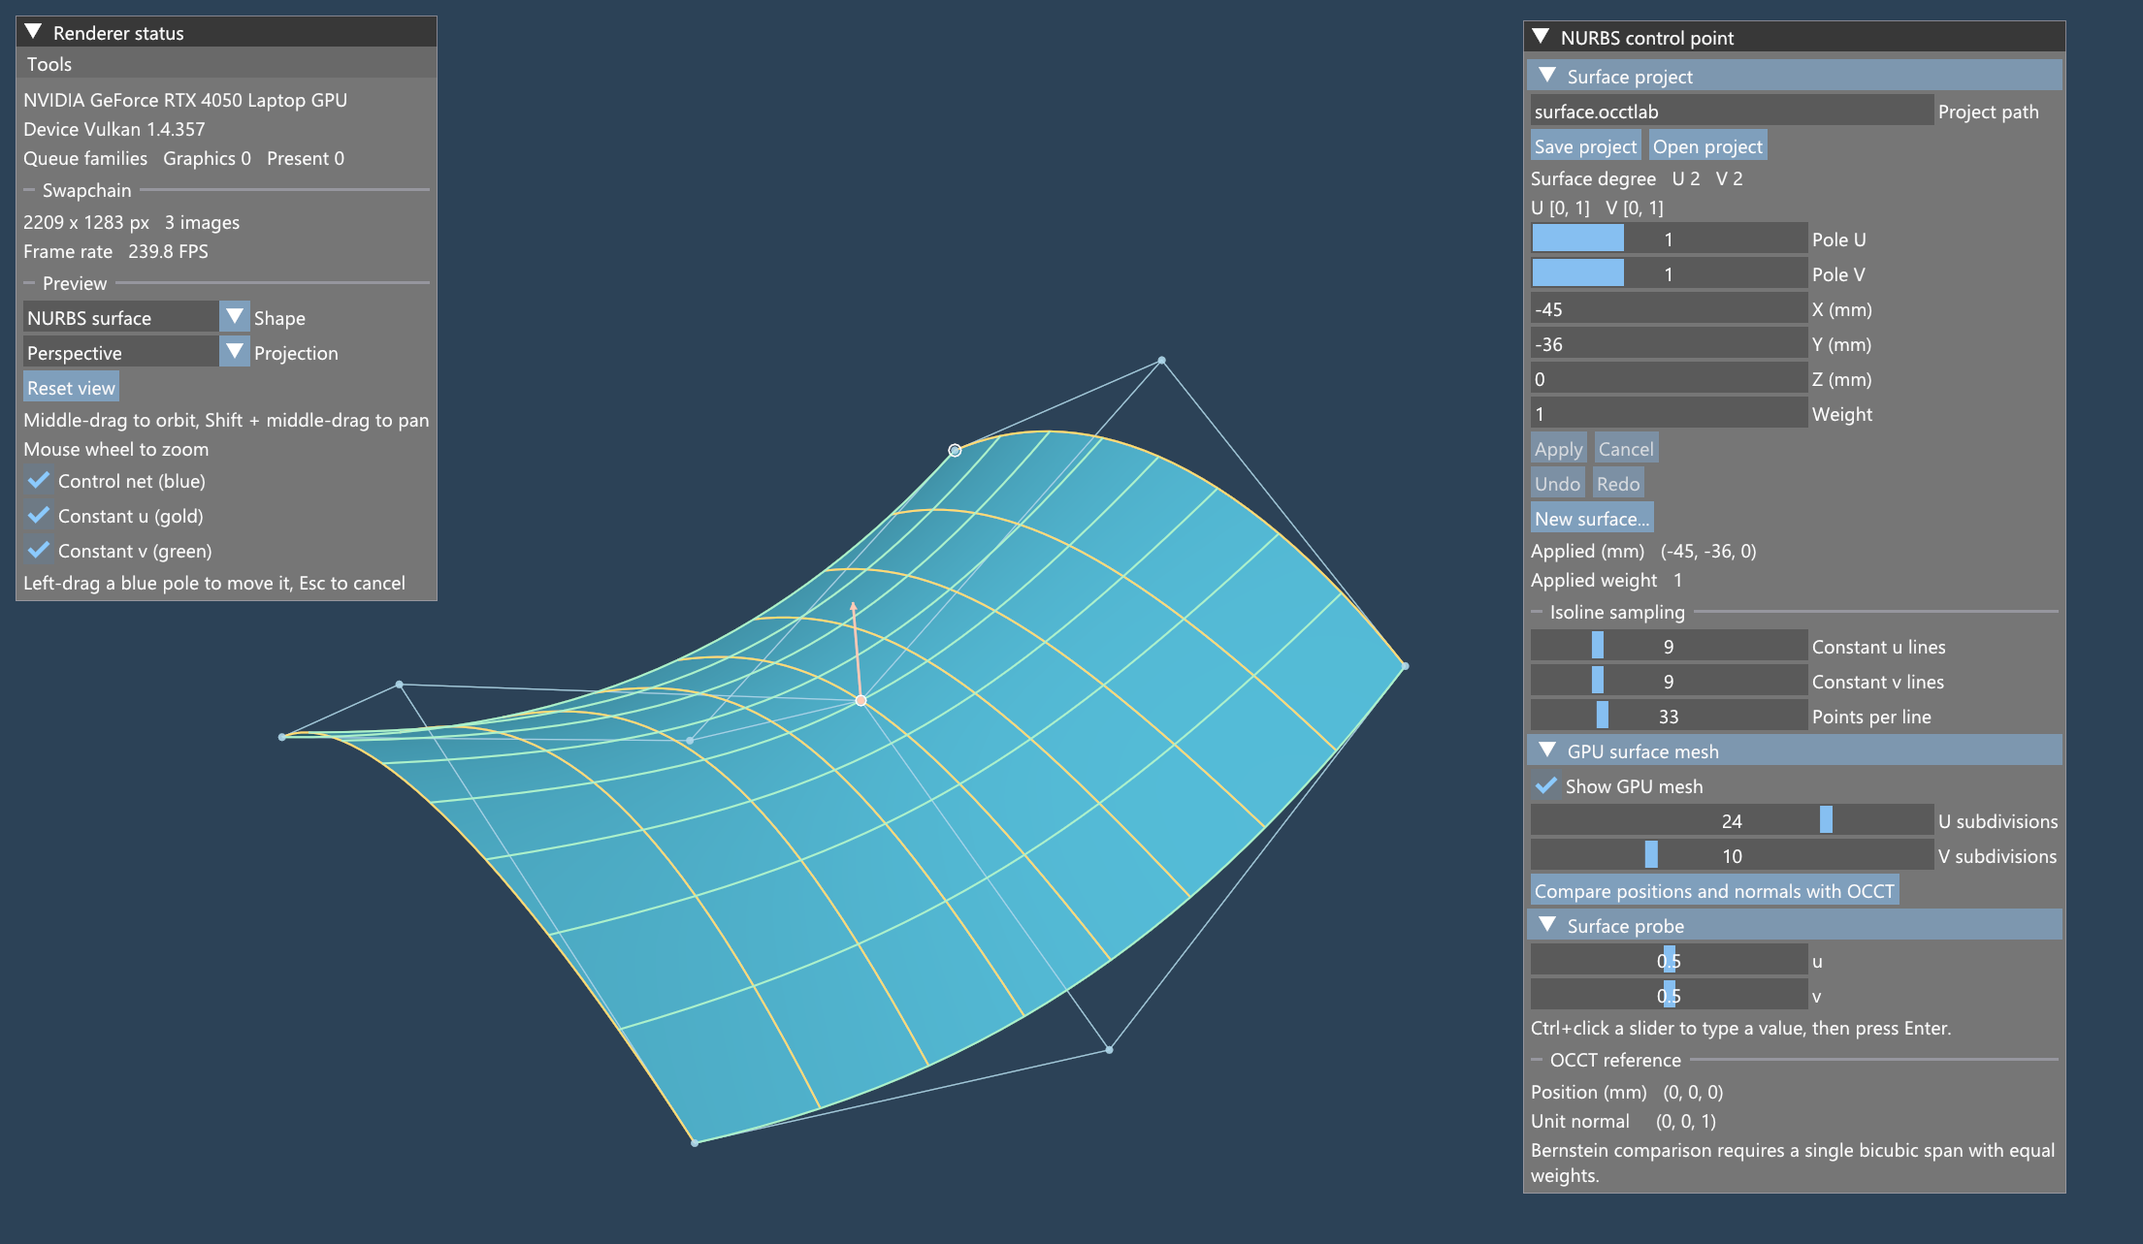
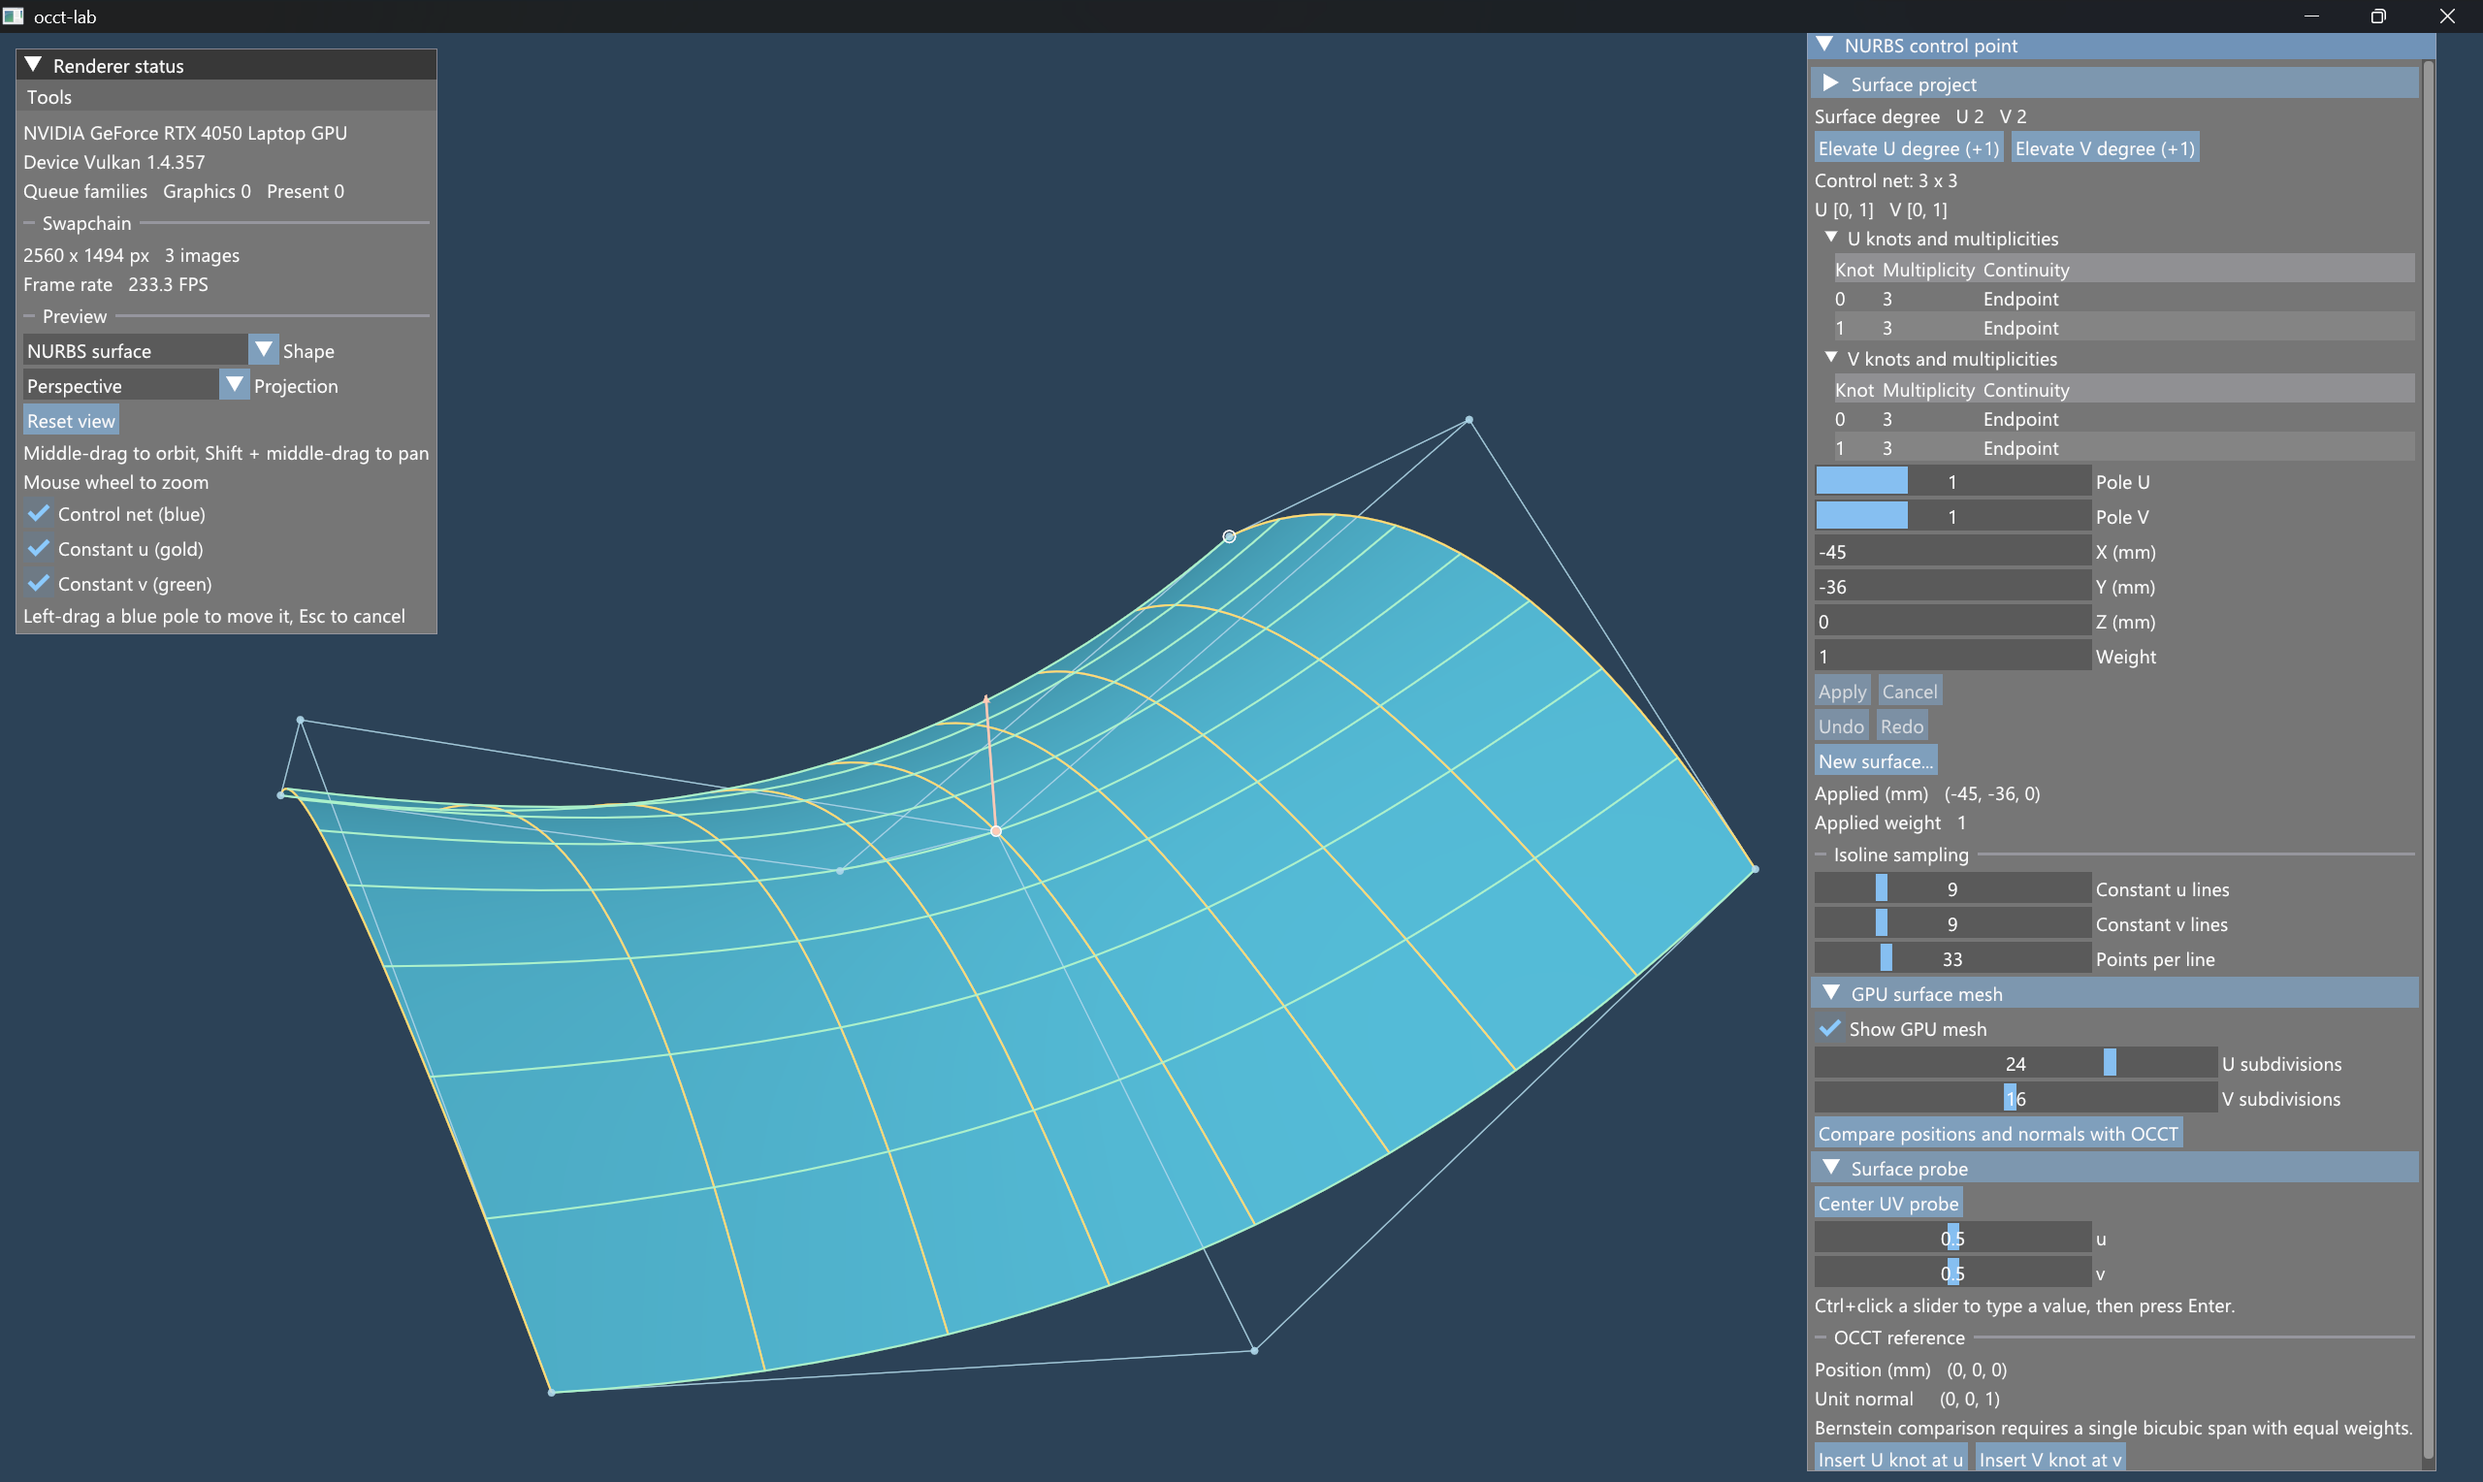
docs: refresh the surface screenshot and simplify the README

diff --git a/README.md b/README.md
@@ -1,31 +1,57 @@
 # occt-lab
 
-occt-lab 是一个用 C++23 编写的交互式计算机辅助几何设计（CAGD）工作台。你可以从一组点创建 NURBS 曲线，或从一张控制网创建曲面，拖动控制点、改变权重，观察形状如何变化。曲面既可以用 Open CASCADE Technology（OCCT）在 CPU 上求值，也可以用 Slang 计算着色器在 GPU 上求值，并逐点比较位置和法向。
+occt-lab 是一个用 C++23 编写的交互式计算机辅助几何设计（CAGD）工作台。你可以拖动 NURBS 控制点、调整权重，观察曲线和曲面的变化，也可以比较 Open CASCADE Technology（OCCT）在 CPU 上与 Slang 计算着色器在 GPU 上的求值结果。
 
-![NURBS 曲面编辑器中的鞍形曲面、控制网、等参线和法向探针](docs/images/nurbs-surface.png)
+![青色鞍形曲面及其控制网，右侧展开了 U/V 节点表和曲面探针](docs/images/nurbs-surface.png)
 
-图中的青色曲面是 GPU 生成的网格，浅蓝色折线连接控制点，金色和绿色曲线分别对应固定 U 和固定 V 的等参线。
-
-## 主要功能
-
-- 创建**曲线**时，可以在 XYZ 表格中输入坐标，或在 XY 平面上依次点选。`From control points` 使用这些点构造控制多边形。`Interpolate through points` 让曲线依次经过数据点，切到 `Approximate points` 可对同一组点按容差拟合。预览显示控制点数和弦长参数处的最大残差，金色拟合曲线可与紫色插值曲线对照。自定义直线和控制点曲线都可以勾选 `Custom knots` 编辑节点值与重数，创建后在 `Knots and multiplicities` 查看内部节点保证的连续阶数。还可以查看逐点残差、插入节点或升阶。
-- 创建**曲面**时，可以从平面、双三次 Bézier 预设或自定义 U/V 控制网开始。选 `Interpolate through point grid` 可输入规则点网，让曲面穿过每个数据点。选 `Approximate point grid` 可指定容差（mm），比较同一组点在不同容差下的控制网尺寸和实测误差。粉色圆环标出原始点，面板显示最大误差（mm）和对应的 U/V 点号。视图中的亮粉色大圆环标出这个数据点，连线另一端的实心点是曲面在对应参数处的位置。自定义控制网支持分别设置两轴的次数和节点。创建后可以展开 `U knots and multiplicities` 或 `V knots and multiplicities`，查看各节点的值、重数和该方向内部节点保证的连续阶数。曲面创建后可编辑控制点的 XYZ 与权重，用探针读取位置和法向。在 `Surface probe` 里调好 u 或 v，点 `Insert U knot at u` 或 `Insert V knot at v` 可增加一列或一行控制点，并保持曲面形状。`Elevate U degree (+1)` 和 `Elevate V degree (+1)` 可单独提高一个方向的次数，保留曲面形状和原始点网。曲线与曲面都支持单步撤销／重做，并可保存为 `.occtlab` 项目文件。
-- **实体预览**使用 OCCT 构造方块、圆柱和带孔板，将实体三角化后交给 Vulkan 绘制。点击一张面即可高亮整面，查看曲面类型和面积。
-- **带孔板**可以用圆柱从板上切出通孔，也可以从带圆孔的平面轮廓拉伸得到。在 `Plate STEP` 面板导出并重读 STEP 文件，可核对实体的有效性、体积和孔壁面积。
+图中是 U、V 均为二次的鞍形曲面。浅蓝色折线连接 3×3 个控制点，青色网格由 GPU 生成。金色和绿色曲线分别是固定 u 和固定 v 的等参线，中央箭头表示探针位置的法向。
 
 ## 试一张曲面
 
-在左侧 `Shape` 中选择 `NURBS surface`，展开右侧 `GPU surface mesh`，勾选 `Show GPU mesh` 即可看到图中的鞍形曲面。用左键拖动一个蓝色控制点，再点 `Compare positions and normals with OCCT`，查看 GPU 与 OCCT 在同一批参数点上的位置误差（mm）和法向夹角（度）。
+1. 在左侧 `Shape` 选择 `NURBS surface`。展开右侧 `GPU surface mesh`，勾选 `Show GPU mesh`。
+2. 用左键拖动蓝色控制点，观察曲面如何变形。中键拖动旋转视图，按住 Shift 并用中键拖动可平移，滚轮缩放。
+3. 在 `Surface probe` 调整 u、v，读取该位置的坐标和单位法向。按住 Ctrl 单击滑块可输入精确值，按 Enter 确认。
+4. 点击 `Compare positions and normals with OCCT`，查看 GPU 与 OCCT 在相同参数点上的位置误差（mm）和法向夹角（度）。
 
-中键拖动旋转视图，`Shift + 中键` 拖动平移，滚轮缩放。在 `Surface probe` 中可以 `Ctrl + 单击` 参数滑块输入精确的 U、V 值，按 Enter 确认。
+## 创建曲线和曲面
+
+曲线使用一列有序点，曲面使用按 U/V 排列的矩形点网。可以在 XYZ 表格中输入坐标，也可以在 XY 平面上依次点选。
+
+| 创建方式 | 曲线 | 曲面 |
+| --- | --- | --- |
+| 用控制点定义形状 | `From control points` | `From control net` |
+| 插值，经过每个数据点 | `Interpolate through points` | `Interpolate through point grid` |
+| 按指定容差逼近数据点 | `Approximate points` | `Approximate point grid` |
+
+曲面也可以从平面或双三次 Bézier 预设开始。曲线和曲面都支持编辑控制点的 XYZ 与权重、单步撤销和重做，以及保存和重开 `.occtlab` 项目。
+
+### 查看拟合误差
+
+- **曲线**的金色拟合曲线和紫色插值曲线使用同一组输入点。预览显示控制点数和最大残差，创建后可以逐点查看弦长参数和对应的残差。
+- **曲面**用粉色圆环标出原始数据点。亮粉色大圆环标出偏差最大的点，连线另一端是曲面在对应参数处的位置。调整容差，可以比较控制网尺寸、最大偏差（mm）和该点的 U/V 编号。
+
+### 节点与升阶
+
+自定义直线和控制点曲线可在 `Custom knots` 中设置节点值与重数。自定义曲面控制网可以分别设置 U、V 两个方向的次数和节点。
+
+- **查看节点**　曲线展开 `Knots and multiplicities`。曲面分别展开 `U knots and multiplicities` 和 `V knots and multiplicities`。表中列出节点值、重数和内部节点保证的连续阶数。
+- **插入节点**　曲线可以在指定参数处插入节点。曲面在 `Surface probe` 选好参数后，点击 `Insert U knot at u` 增加一列控制点，或点击 `Insert V knot at v` 增加一行。曲面的形状保持不变。
+- **升阶**　曲线可直接升阶。曲面的 `Elevate U degree (+1)` 和 `Elevate V degree (+1)` 每次将所选方向的次数提高一级，同时保留曲面形状和原始数据点网。
+
+## 实体与 STEP
+
+OCCT 构造方块、圆柱和带孔板，并将实体三角化后交给 Vulkan 绘制。点击一个面可以高亮它，查看曲面类型和面积。
+
+创建带孔板时，可以用圆柱从板上切出通孔，也可以拉伸带圆孔的平面轮廓。在 `Plate STEP` 面板导出并重读 STEP 文件，可以核对实体的有效性、体积和孔壁面积。
 
 ## 构建与测试
 
-项目使用 C++23 命名模块。`.cppm` 文件用 `export` 标出对外接口，曲线拟合等较长的实现保存在同一模块的独立 `.cpp` 中。[曲线模块](src/geometry/curves/bspline_curve.cppm) · [拟合实现](src/geometry/curves/curve_fitting.cpp)
+Windows x64 的 Release 预设使用 CMake 4.5 或更高版本、Ninja 和 clang-cl。[CMake 预设](CMakePresets.json)
 
-Windows x64 的 Release 预设使用 CMake 4.5 或更高版本和 Ninja。项目通过 `import std;` 使用 C++23 标准库，需要 MSVC 工具集中的标准库模块文件。项目和 vcpkg 依赖都从 PATH 查找 `clang-cl.exe`。请将 `VCPKG_ROOT` 指向 vcpkg 安装目录。运行需要支持 Vulkan 1.3 的驱动。[CMake 预设](CMakePresets.json)
+- 项目和 vcpkg 依赖都从 `PATH` 查找 `clang-cl.exe`。将 `VCPKG_ROOT` 指向 vcpkg 安装目录。
+- `import std;` 需要 MSVC 工具集中的 C++23 标准库模块文件。运行程序需要支持 Vulkan 1.3 的驱动。
 
-以下命令在仓库根目录的 x64 VS 开发者 PowerShell 中运行。
+在 x64 VS 开发者 PowerShell 中进入仓库根目录，运行以下命令。
 
 ```powershell
 cmake --preset release
@@ -34,6 +60,8 @@ cmake --build --preset release
 ctest --test-dir build-release --output-on-failure
 ```
 
-窗口和输入使用 SDL3，编辑面板使用 Dear ImGui；渲染使用 Vulkan-Hpp、动态渲染和 Synchronization2。CMake 负责编译 Slang 着色器，vcpkg 管理依赖。[依赖清单](vcpkg.json)
+项目使用 C++23 命名模块。`.cppm` 文件用 `export` 标出对外接口，曲线拟合等较长的实现放在同一模块的独立 `.cpp` 文件中。[曲线模块](src/geometry/curves/bspline_curve.cppm) · [拟合实现](src/geometry/curves/curve_fitting.cpp)
+
+SDL3 处理窗口和输入，Dear ImGui 绘制编辑面板。渲染使用 Vulkan-Hpp、动态渲染和 Synchronization2。CMake 编译 Slang 着色器，vcpkg 管理依赖。[依赖清单](vcpkg.json)
 
 项目采用 [MIT License](LICENSE)。
